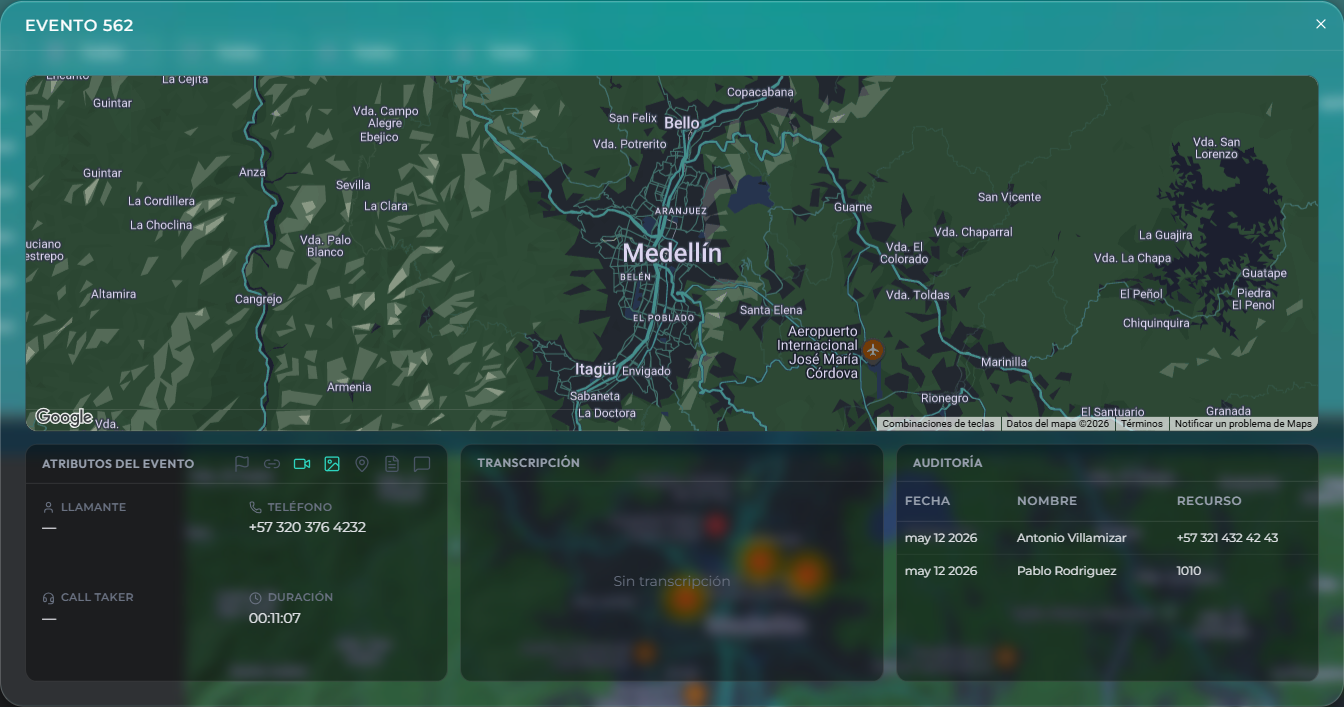
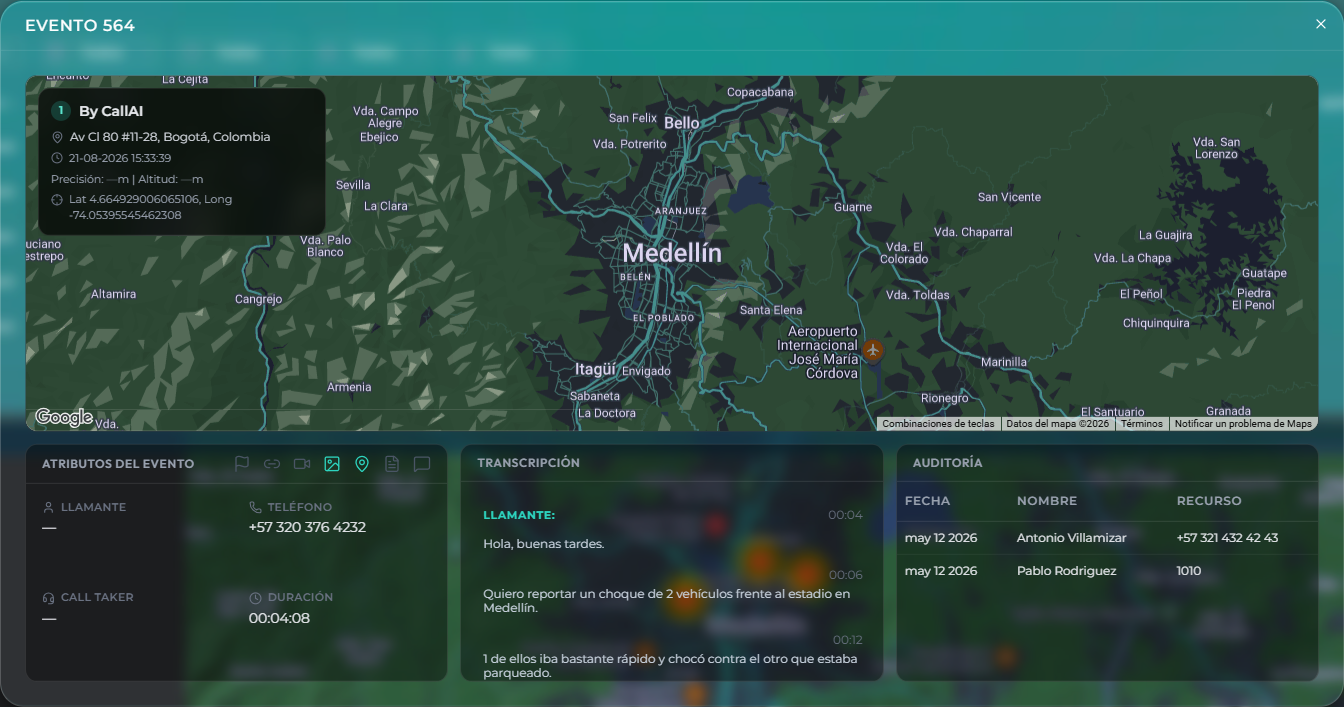
docs(bridge-manual): the owner revokes the figure-content rule, and the row choice survives it
The rule added one commit ago barred the content of a citizen's communication —
transcript, chat, recording — from any figure. The owner revoked it explicitly:
that content MAY be shown. His product, his client, his legal frame; the decision
is his and ESTADO now records it as his, with the route rather than only the
result.

No content restriction remains on what a figure may show.

What stays in the file as a consequence rather than a prohibition: a manual is a
PDF. It travels by mail, gets printed, sits in shared folders, and carries none
of the console's access control, so anything legible in a figure is disclosed to
whoever receives it. If that ever needs bounding, what it takes is a redaction
capability in the capture harness — the pipeline owner's call and work, not this
lane's.

THE METHOD SURVIVES THE RULE, and that is the part worth keeping. Choosing which
ROW a figure opens turned out to be the lever either way. Under the rule the
recipe looked for the row that concealed most; without it, the row that SHOWS
most — which is what the caption asked for all along ("todo lo registrado de ese
evento"). The first six history rows were opened one at a time to see what each
dialog actually holds:

  566  transcript yes  attributes no     <- the original pick, two thirds of its caption
  565  yes  yes
  564  yes  yes                          <- taken: Accidente de Tránsito, with a street address
  563  yes  yes
[…]

diff --git a/manuals/bridge-manual/ESTADO.md b/manuals/bridge-manual/ESTADO.md
@@ -106,53 +106,45 @@ state.
   query, which for a product with no extractor does not exist. Until it does, an
   entry is closed by a person.
 
-- **Qué datos reales puede llevar una figura.** Decisión delegada por el dueño
-  ("establécelos tú") una vez que las capturas empezaron a traer datos de
-  personas. La regla operativa es una sola línea:
+- **Qué datos reales puede llevar una figura: SIN restricción de contenido.**
+  Decisión del dueño, tomada en dos tiempos y registrada así porque el recorrido
+  importa más que el resultado.
 
-  > Una figura puede mostrar el producto funcionando con datos reales, pero
-  > nunca el CONTENIDO de la comunicación de un ciudadano — transcripción, chat
-  > o grabación.
+  La pregunta apareció sola cuando las capturas empezaron a traer datos de
+  personas: `dashboard.historial.detalle.abrir` abrió un evento cuyo panel de
+  transcripción traía la llamada entera de un robo de documentos, y la auditoría
+  nombraba a dos personas con teléfono. El dueño delegó el criterio
+  ("establécelos tú"), y se fijó uno que prohibía el contenido de la comunicación
+  de un ciudadano — transcripción, chat o grabación — dejando pasar los
+  metadatos operativos.
 
-  El razonamiento, porque la regla sin él se erosiona sola. El manual es un PDF:
-  viaja por correo, se imprime, se deja en carpetas compartidas, y no tiene el
-  control de acceso que sí tiene la consola. Todo lo legible en una figura queda
-  divulgado a quien reciba el archivo. Contra eso hay que pesar que un manual de
-  consola de despacho *tiene* que mostrar la consola poblada: una tabla de
-  eventos vacía no enseña a usar la tabla de eventos.
+  **El dueño revocó esa regla de forma explícita: el contenido de una
+  comunicación SÍ puede mostrarse.** Es su producto, su cliente y su marco legal,
+  y la decisión es suya. No queda ninguna restricción de contenido sobre lo que
+  una figura puede mostrar.
 
-  La línea queda entonces en el borde más filoso y no en el más cómodo. Los
-  metadatos operativos — tipos de incidente, horarios, duraciones, direcciones,
-  teléfonos, nombres de agentes — ya están a la vista de cualquier operador que
-  use el producto, que es exactamente quien lee este manual. El contenido de una
-  llamada no es lo mismo: es la sustancia de la emergencia de una persona
-  identificable, no hace ninguna falta para explicar un control, y una vez en el
-  PDF queda copiable para siempre.
+  Lo que sigue siendo cierto, y por eso queda anotado como consecuencia y no como
+  prohibición: un manual es un PDF. Viaja por correo, se imprime, queda en
+  carpetas compartidas, y no lleva el control de acceso que sí tiene la consola.
+  Todo lo legible en una figura queda divulgado a quien reciba el archivo. Si
+  alguna vez hace falta acotar eso, lo que se necesita es una capacidad de
+  tachado en el arnés de captura — decisión y trabajo del dueño del pipeline, no
+  de esta cancha.
 
-  **Es aplicable hoy, y eso fue verificado antes de escribirla.**
-  `dashboard.historial.detalle.abrir` salió primero sobre un evento cuyo panel de
-  transcripción traía la llamada entera de un robo de documentos. La quinta fila
-  de la tabla abre un evento que dice "Sin transcripción", así que la receta
-  elige esa fila — el mismo movimiento que hace el mosaico de CCTV al nombrar sus
-  tres cámaras. Una regla que no se puede aplicar no es una regla.
-
-  **Lo que esta regla NO cubre, y por qué no lo cubre.** La versión fuerte sería
-  prohibir además cualquier identificador que llegue a una persona del público:
-  el teléfono del llamante, la dirección exacta del hecho. Esa versión no es
-  aplicable con el arnés actual — habría que tachar regiones de la imagen, y eso
-  es una capacidad del pipeline que no existe. Las figuras ya entregadas
-  (`dashboard.historial.fig`, `detalle.ubicar`, `detalle.abrir`,
-  `fuerzas-campo.asignacion.fig`) llevan teléfonos y direcciones reales. Adoptar
-  la versión fuerte sin la máquina para cumplirla dejaría a Dashboard sin
-  documentar.
-
-  **Qué la resuelve:** una capacidad de tachado en el arnés de captura, decidida
-  y construida por el dueño del pipeline. Hasta entonces rige la regla de arriba,
-  que es la que sí se sostiene sola.
+  **Lo que la regla dejó como método útil, y sobrevive a su revocación:** elegir
+  la FILA de la que se fotografía. Mientras la regla rigió, la receta buscaba la
+  fila que escondiera menos; sin la regla, busca la que muestre más — que es lo
+  que la caption pedía desde el principio ("todo lo registrado de ese evento").
+  Las seis primeras filas del historial se abrieron una por una para ver qué
+  traía cada cuadro: 566 tiene transcripción y no atributos, 562 al revés, y 564
+  — Accidente de Tránsito, con dirección — llena los dos. La receta elige esa.
+  El mismo movimiento que hace el mosaico de CCTV al nombrar sus tres cámaras:
+  cuando los datos del producto deciden si una toma sirve, la receta elige los
+  datos.
 
   Consecuencia para lo que viene: `llamada.transcripcion.fig` y
-  `llamada.chat.fig` están pendientes y caen de lleno bajo esta regla. Ninguna de
-  las dos se puede fotografiar sobre una llamada real de un ciudadano.
+  `llamada.chat.fig` no tienen impedimento de contenido. Siguen pendientes por lo
+  único que las bloquea de verdad, que es necesitar una llamada en curso.
 
 ## Ruled out
 
